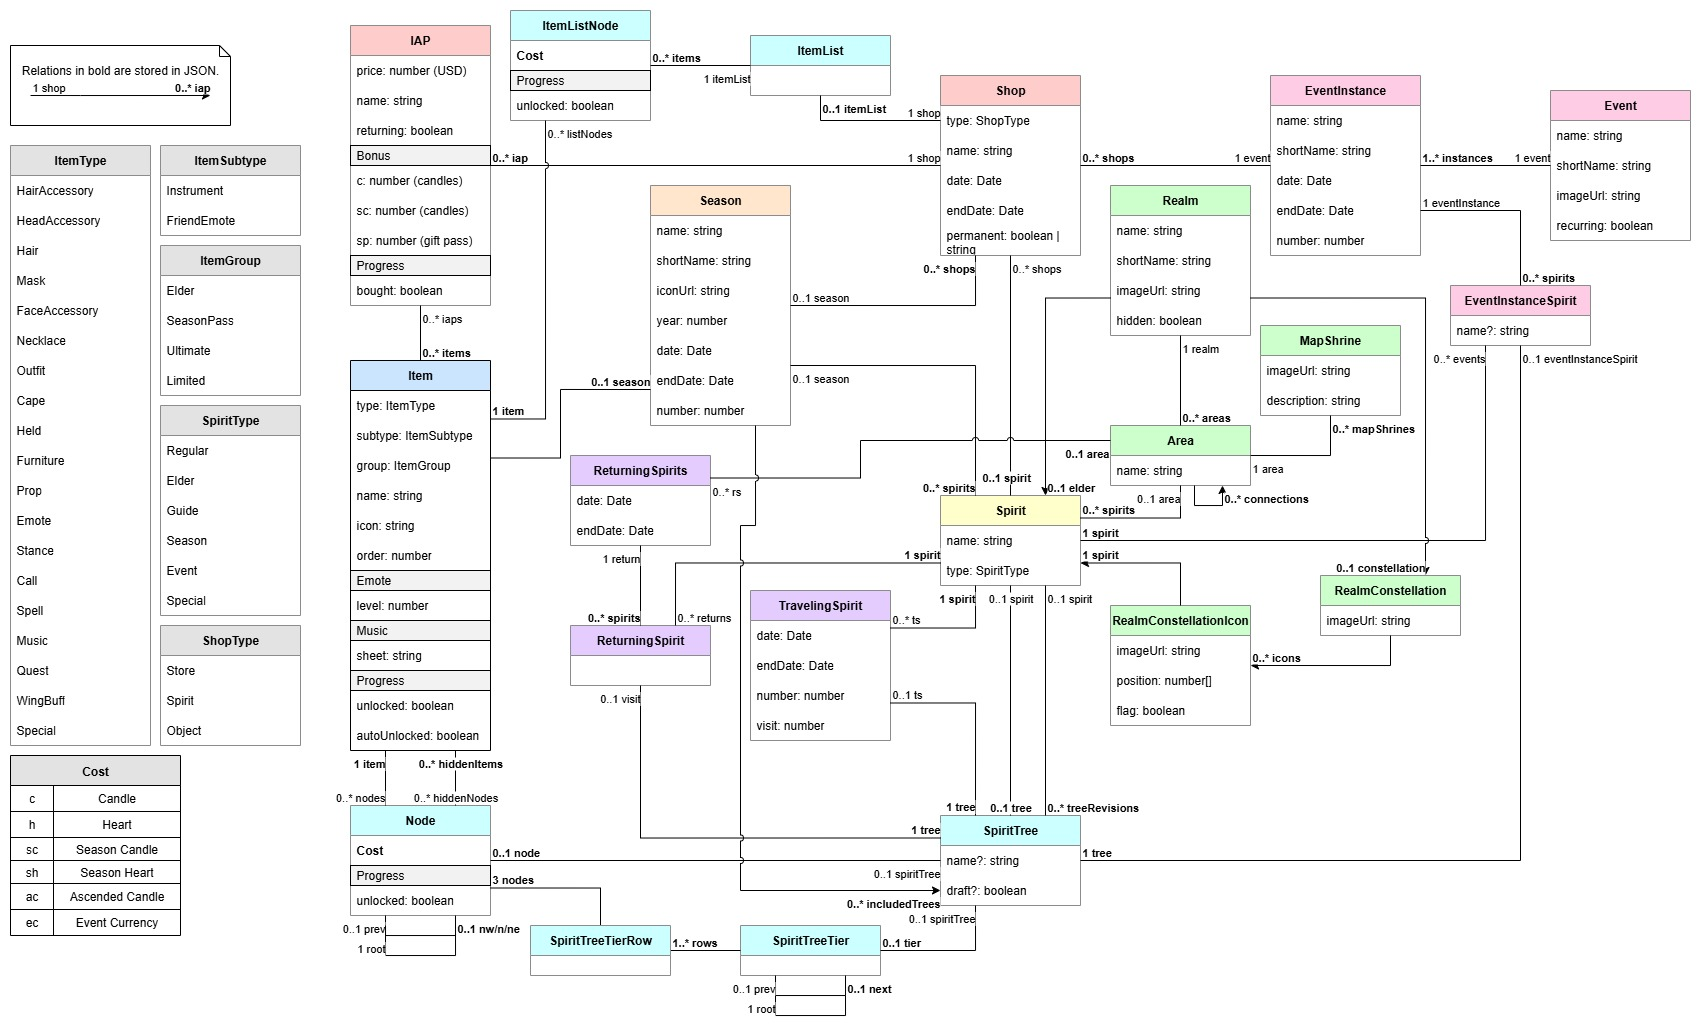
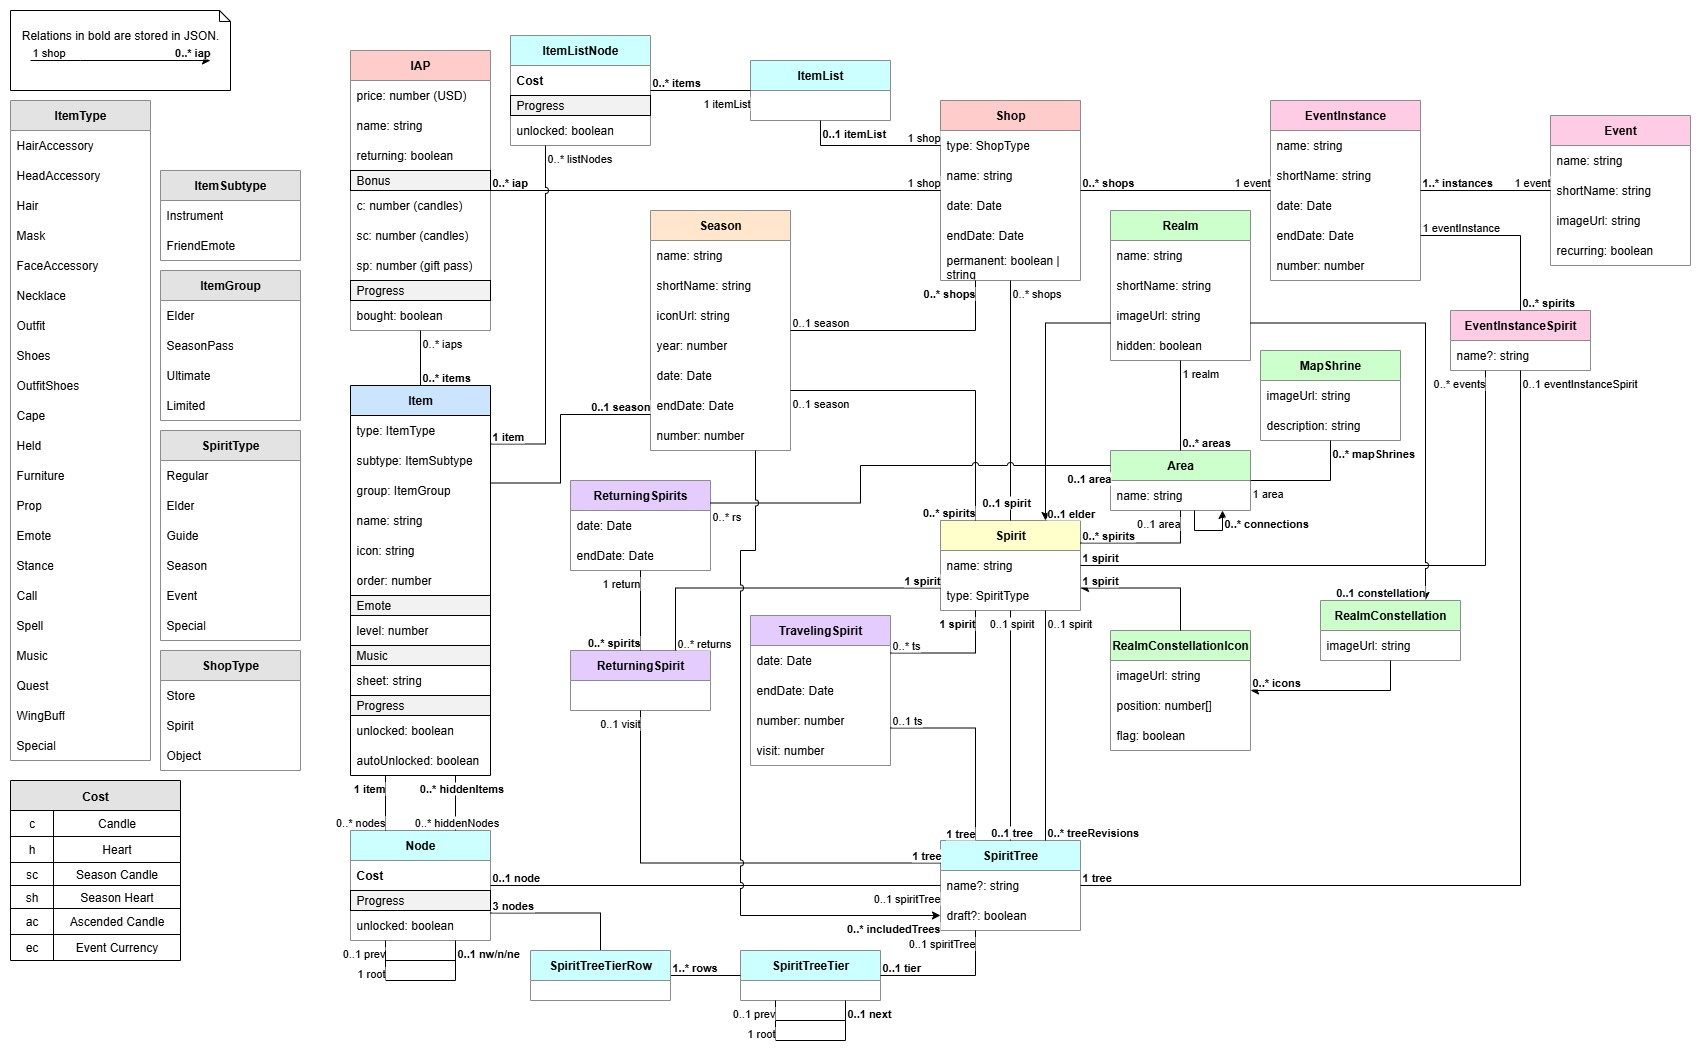
Update vault for OutfitShoes & diagram

diff --git a/src/app/components/outfit-request/outfit-vault/outfit-vault.component.ts b/src/app/components/outfit-request/outfit-vault/outfit-vault.component.ts
@@ -84,17 +84,17 @@ export class OutfitVaultComponent {
   lightings = [ 'Unknown lighting', 'Day', 'Sunset', 'Night', 'Forest' ];
 
   itemTypes: Array<ItemType> = [
-    ItemType.Outfit, ItemType.Shoes,
+    ItemType.Outfit, ItemType.Shoes, ItemType.OutfitShoes,
     ItemType.Mask, ItemType.FaceAccessory, ItemType.Necklace,
     ItemType.Hair, ItemType.HairAccessory, ItemType.HeadAccessory,
     ItemType.Cape,
     ItemType.Held, ItemType.Furniture, ItemType.Prop
   ];
-  selectionTypes = this.itemTypes.filter(type => type !== ItemType.Held && type !== ItemType.Furniture);
+  selectionTypes = this.itemTypes.filter(type => type !== ItemType.Held && type !== ItemType.Furniture && type !== ItemType.OutfitShoes);
   typeFolded: { [key: string]: boolean } = {};
 
   sections: Array<Array<ItemType>> = [
-    [ItemType.Outfit, ItemType.Shoes],
+    [ItemType.Outfit, ItemType.Shoes, ItemType.OutfitShoes],
     [ItemType.Mask, ItemType.FaceAccessory, ItemType.Necklace],
     [ItemType.Hair, ItemType.HairAccessory, ItemType.HeadAccessory],
     [ItemType.Cape],
@@ -103,7 +103,7 @@ export class OutfitVaultComponent {
   sectionFolded: Array<boolean> = [];
 
   itemIcons: { [key: string]: string } = {
-    ['Outfit']: 'outfit', ['Shoes']: 'shoes',
+    ['Outfit']: 'outfit', ['Shoes']: 'shoes', ['OutfitShoes']: 'outfit-shoes',
     ['Mask']: 'mask', ['FaceAccessory']: 'face-acc', ['Necklace']: 'necklace',
     ['Hair']: 'hair', ['HairAccessory']: 'hair-acc', ['HeadAccessory']: 'head-acc',
     ['Cape']: 'cape',
@@ -191,6 +191,11 @@ export class OutfitVaultComponent {
       type = ItemType.Held;
     }
 
+    if (type === ItemType.OutfitShoes) {
+      this.typeFolded[ItemType.Outfit] && this.foldType(ItemType.Outfit, false);
+      type = ItemType.Outfit;
+    }
+
     setTimeout(() => {
       const el = this._elementRef.nativeElement.querySelector(`.closet-items[data-type="${type}"]`);
       const elSelection = this._elementRef.nativeElement.querySelector(`.selection-sticky`);
@@ -219,6 +224,7 @@ export class OutfitVaultComponent {
     if (!item) { return; }
     let type = item.type;
     if (type === ItemType.Held || type === ItemType.Furniture) { type = ItemType.Prop; }
+    if (type === ItemType.OutfitShoes) { type = ItemType.Outfit; }
 
     // Remove selection.
     if (this.selection[type] === item) {
